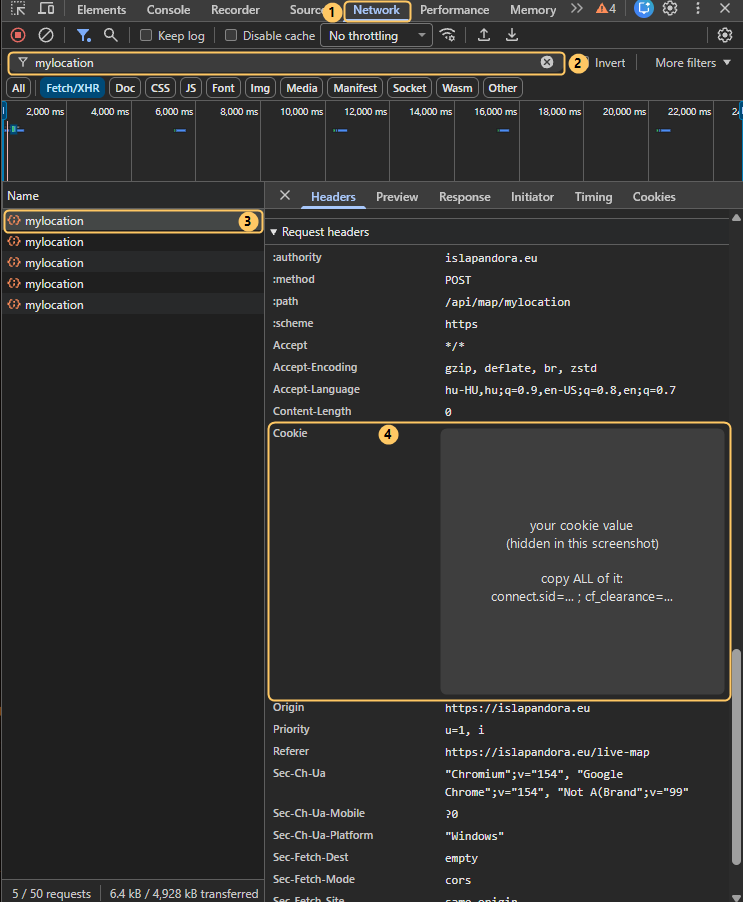
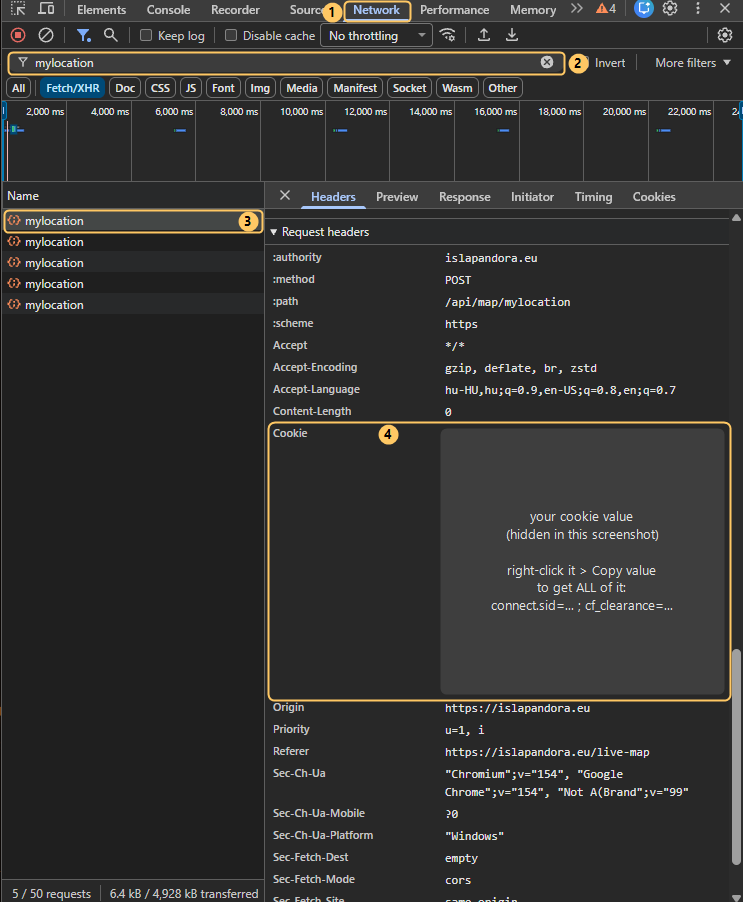
README: setup step 4 and the DevTools shot mention right-click > Copy value

Changed region(s): [[0.6501, 0.5588, 0.8977, 0.6829]]

diff --git a/README.md b/README.md
@@ -52,9 +52,9 @@ The exe lands in `bin\Release\net8.0-windows\PandoraOverlay.exe`.
 
 2. Click **Open live map in browser** and log in with Discord.
 3. On the live-map page press F12 → Network tab → type `mylocation` into the filter → click any row.
-4. Under **Request Headers**, copy the whole value of `cookie` and paste it into the Account section's paste box. It validates as you type (it also cleans up stray quotes, a `cookie:` prefix, and line breaks automatically). Hit Save — the overlay connects immediately, no restart needed.
+4. Under **Request Headers**, copy the whole value of `cookie` (right-click the value → **Copy value** gets all of it in one go) and paste it into the Account section's paste box. It validates as you type (it also cleans up stray quotes, a `cookie:` prefix, and line breaks automatically). Hit Save — the overlay connects immediately, no restart needed.
 
-   ![The browser's DevTools on the live-map page with the four spots marked: 1 the Network tab, 2 "mylocation" typed into the filter, 3 a mylocation row selected, 4 the Cookie line under Request headers, its value hidden in this screenshot](docs/setup-devtools.png)
+   ![The browser's DevTools on the live-map page with the four spots marked: 1 the Network tab, 2 "mylocation" typed into the filter, 3 a mylocation row selected, 4 the Cookie line under Request headers, its value hidden in this screenshot with the tip "right-click it > Copy value"](docs/setup-devtools.png)
 
    ![The Settings dialog after pasting: the paste box holding the cookie (hidden in this screenshot), the green line "Looks good ✓ — both session and Cloudflare cookies found", and Save now enabled](docs/setup-pasted.png)
 
